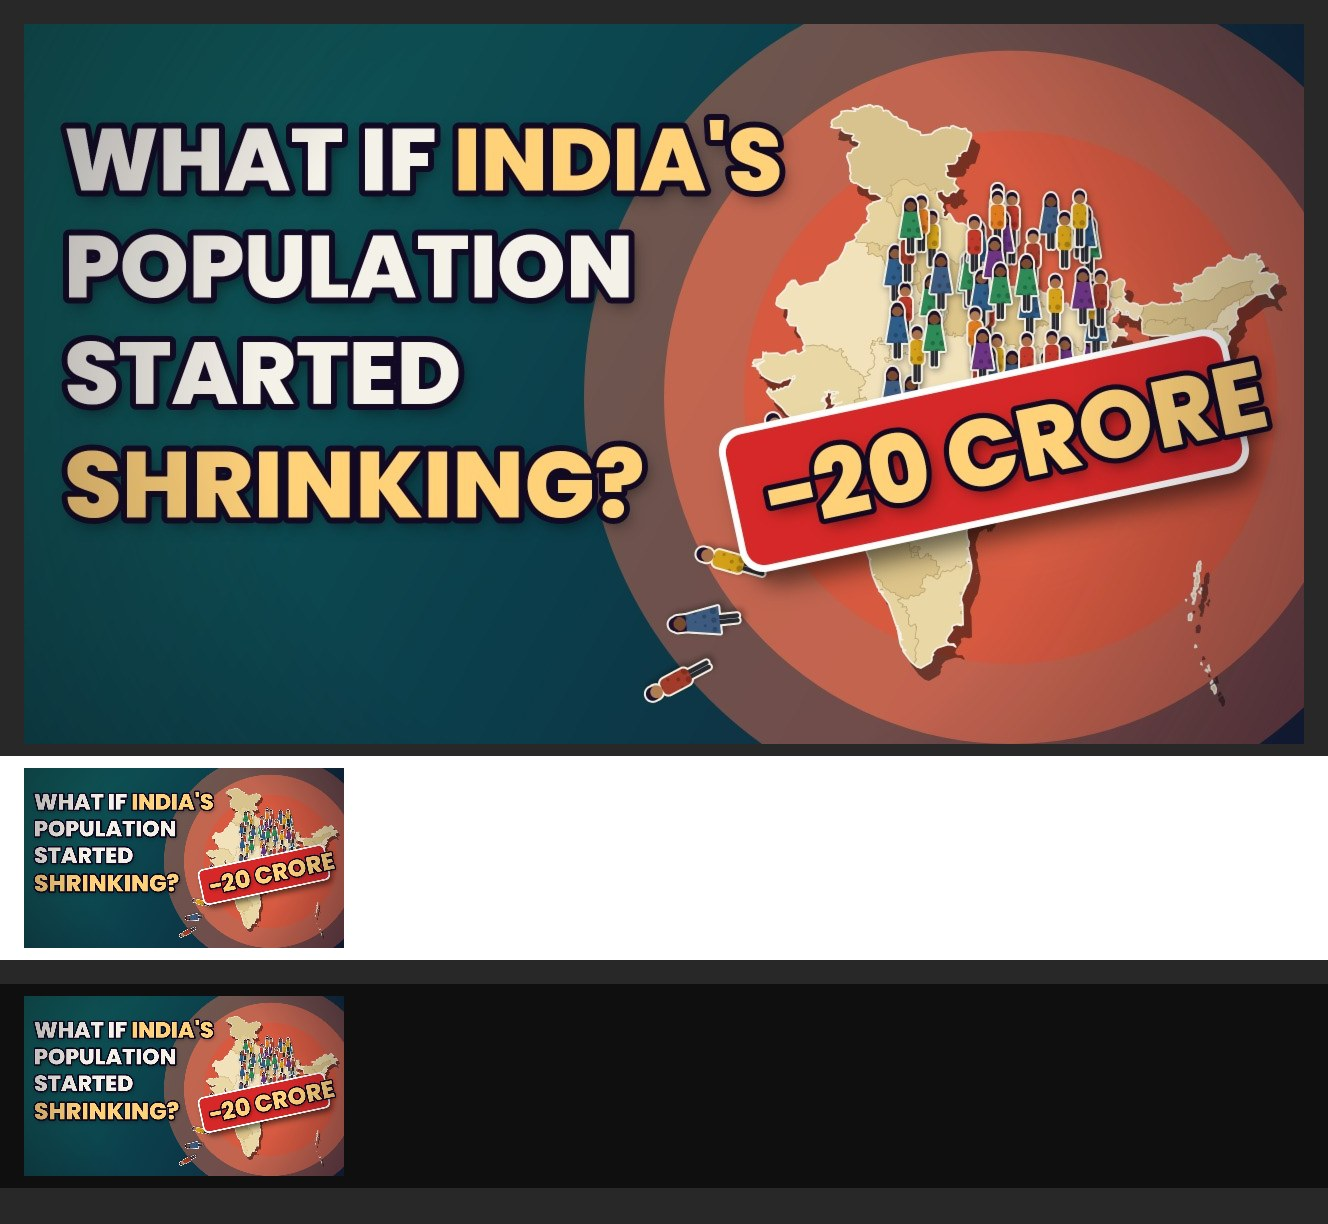
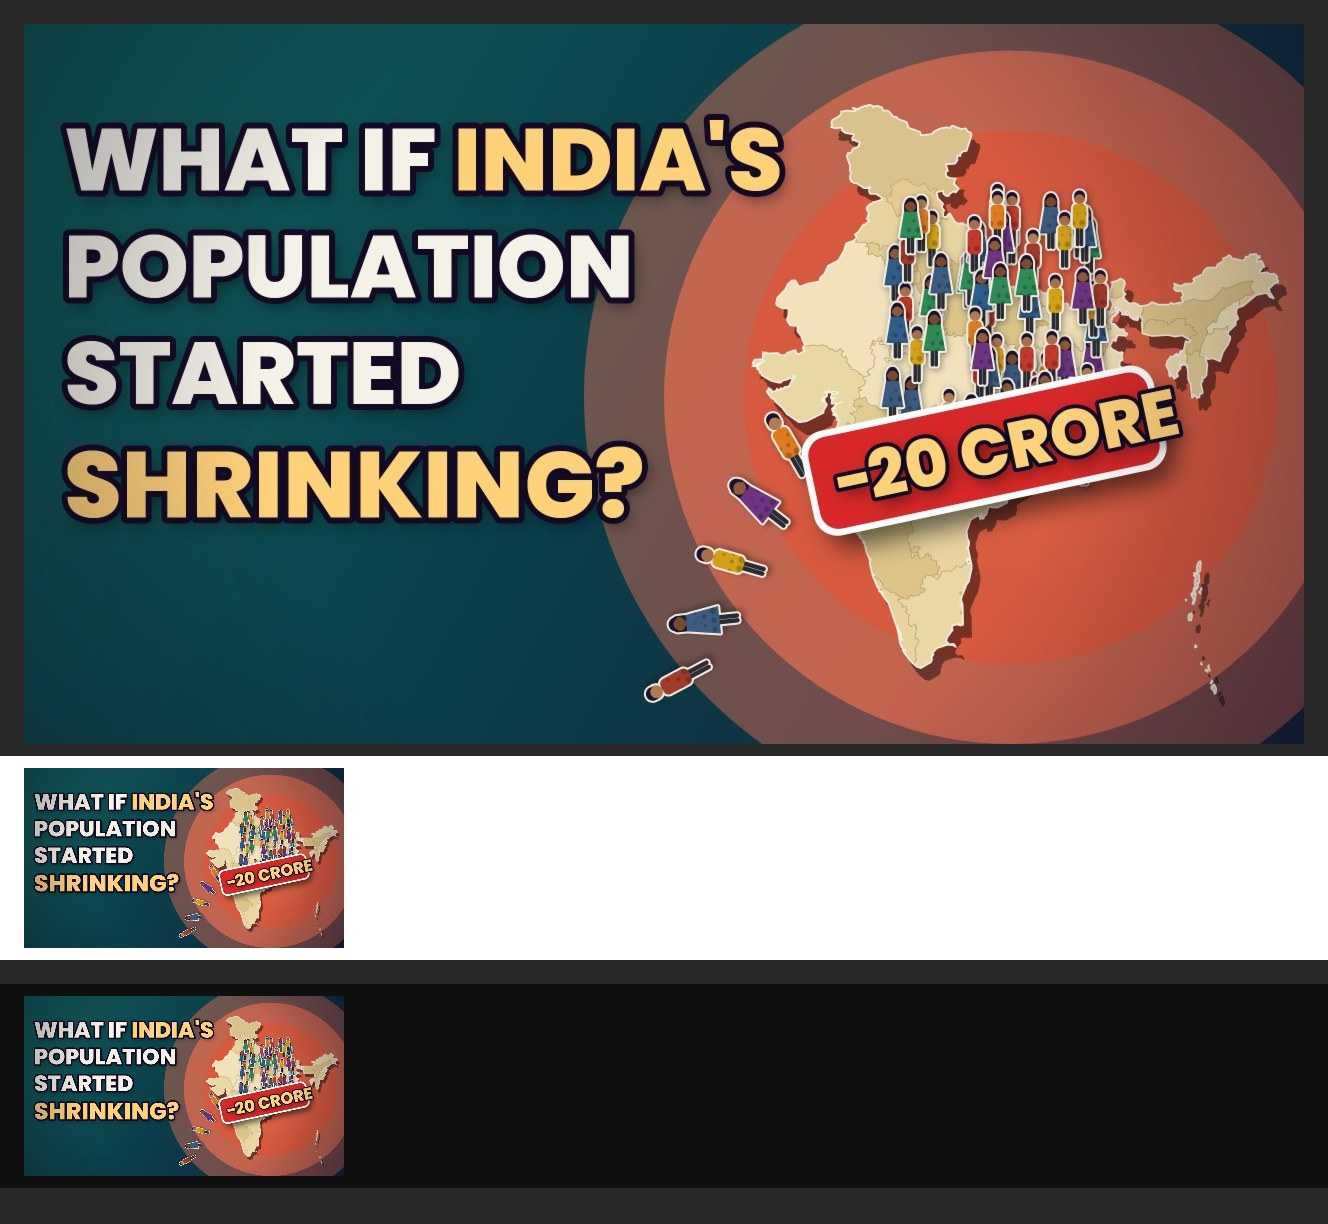
india-population-shrinking: thumbnail sticker smaller
Claude-Session: https://claude.ai/code/session_01WCp4uQEYis8QAmCexfaYWR

Changed region(s): [[0.5248, 0.2484, 0.9571, 0.4967], [0.1544, 0.8693, 0.2779, 0.9314], [0.1544, 0.683, 0.2779, 0.7451]]

diff --git a/runs/india-population-shrinking/video/thumbs.py b/runs/india-population-shrinking/video/thumbs.py
@@ -52,13 +52,13 @@ def thumb(c):
         c.save(); c.rotate(-30 - i * 22, x, y - 40)
         cutout(c, lambda kk, x=x, y=y, i=i: figure(kk, x, y, 0.28, i=i + 3, female=i % 2 == 1), border=3, shadow=(3, 5))
         c.restore()
-    sx, sy, sw, shh = cx - 420, cy - 20, 760, 200
+    sx, sy, sw, shh = cx - 300, cy + 10, 520, 140
     c.save(); c.rotate(-12, sx + sw / 2, sy + shh / 2)
     sh = paint("#000000", 0.55); sh.setMaskFilter(skia.MaskFilter.MakeBlur(skia.kNormal_BlurStyle, 18))
     c.drawRRect(skia.RRect.MakeRectXY(skia.Rect(sx + 8, sy + 22, sx + sw + 18, sy + shh + 32), 36, 36), sh)
     c.drawRRect(skia.RRect.MakeRectXY(skia.Rect(sx - 10, sy - 10, sx + sw + 10, sy + shh + 10), 36, 36), paint("#FFFFFF"))
     c.drawRRect(skia.RRect.MakeRectXY(skia.Rect(sx, sy, sx + sw, sy + shh), 28, 28), paint("#D62828"))
-    outline_text(c, "−20 CRORE", sx + 45, sy + 152, 142, "gold", stroke=16)
+    outline_text(c, "−20 CRORE", sx + 32, sy + 106, 98, "gold", stroke=12)
     c.restore()
     # title, word for word, key word in gold
     words(c, [("WHAT IF ", "cream"), ("INDIA'S", "gold")], 60, 250, 132)
